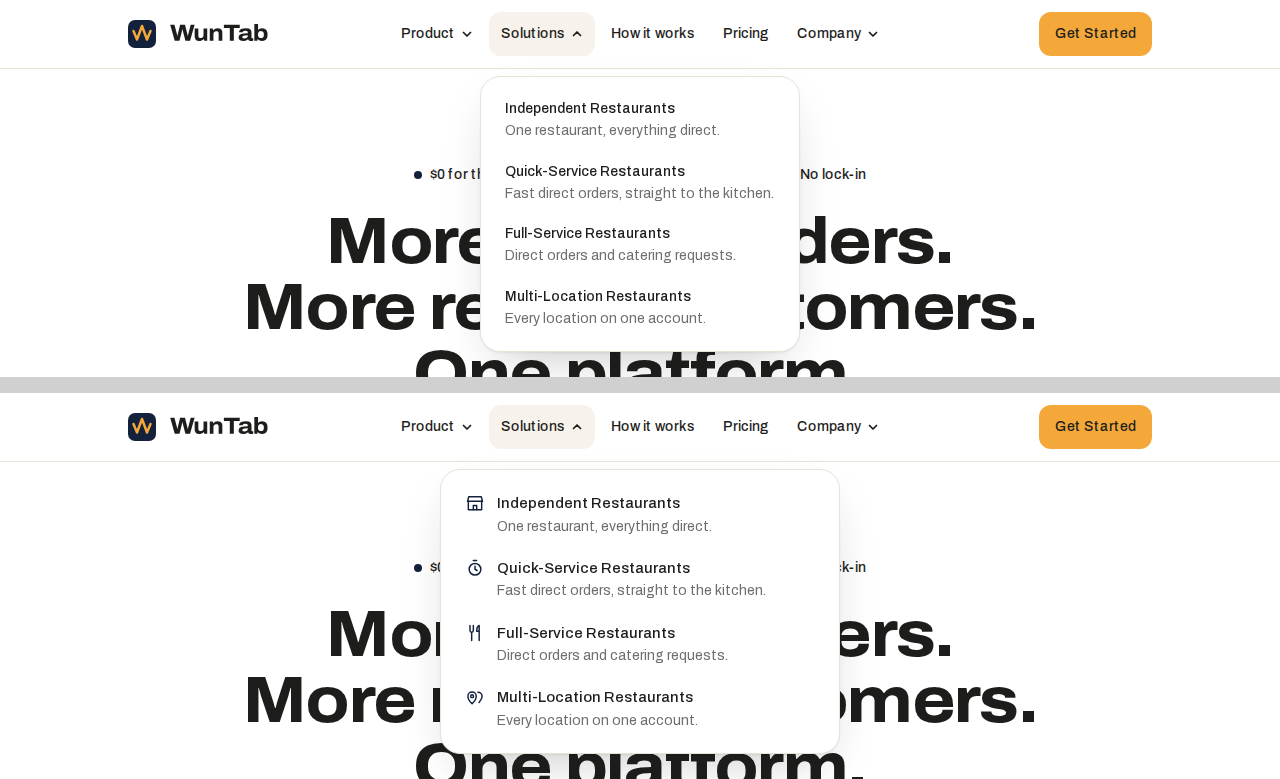
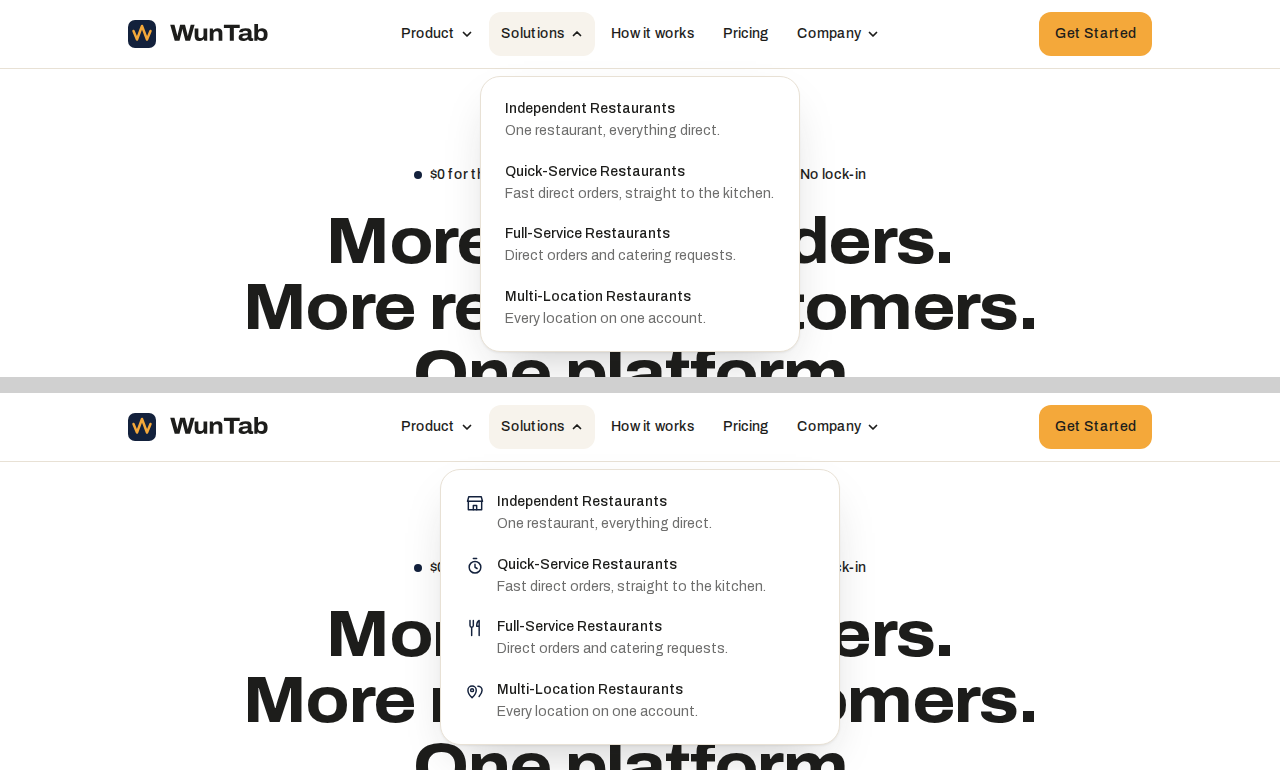
Header menus: every piece of menu text on the five sizes
Owner's review of #63 at 1280 and 375 (2026-10-20):

- Item names and group headings are the small size (14px); headings stay
  weight 600 in ink-muted. The card's "Demo restaurant" line and its link
  are 14px; the card title stays the body size, already on the scale.
  Solutions names are 14px too.
- A new test opens each menu at 1024, 1280 and 1440, and every phone
  group at 375, and checks every visible text against the site's five
  sizes. It failed on the previous build ("Sell directly" at 13px).
  No label wraps from 1024 to 1440 after the change.
- No arrow keys (owner: Tab and Escape are enough); the Escape fix and
  its test stay.
- The design skill and LOG.md record the round.

Claude-Session: https://claude.ai/code/session_01UZB8hyaQxnMWnWtoGGmC5B

diff --git a/tests/menu.spec.ts b/tests/menu.spec.ts
@@ -208,11 +208,11 @@ test("the Product panel: three columns, the card, then New to WunTab, and no nam
     // One row: the three columns side by side, the card to their right.
     expect(new Set(layout.groups.map((g) => Math.round(g.top))).size).toBe(1);
     for (const [i, g] of layout.groups.entries()) {
-      expect(g.heading, `heading at ${width}`).toEqual({ size: "13px", weight: "600", color: "rgb(110, 110, 109)" });
+      expect(g.heading, `heading at ${width}`).toEqual({ size: "14px", weight: "600", color: "rgb(110, 110, 109)" });
       for (const row of g.rows) {
         expect(row.lines, `"${row.label}" wraps at ${width}`).toBe(1);
         expect(row.height, `${row.label} at ${width}`).toBeGreaterThanOrEqual(44);
-        expect([row.size, row.weight], `${row.label}`).toEqual(["15px", "500"]);
+        expect([row.size, row.weight], `${row.label}`).toEqual(["14px", "500"]);
         expect(Math.round(row.gap), `${row.label}: 12px from its icon`).toBe(12);
         const next = layout.groups[i + 1];
         const limit = next?.left ?? layout.card?.left ?? layout.panel.right;
@@ -234,6 +234,59 @@ test("the Product panel: three columns, the card, then New to WunTab, and no nam
     await expect(more.locator("a")).toHaveText([copy.nav.howItWorks, copy.nav.pricing]);
     expect(await more.locator("a").evaluateAll((as) => as.map((a) => a.getAttribute("href")))).toEqual(["/how-it-works", "/pricing"]);
     expect(await page.evaluate(() => document.documentElement.scrollWidth)).toBeLessThanOrEqual(width);
+  }
+});
+
+/** The site's five text sizes at this width, read from the classes themselves. */
+async function scale(page: Page) {
+  return page.evaluate(() =>
+    ["text-small", "text-body", "text-h3", "text-h2", "text-display"].map((cls) => {
+      const el = Object.assign(document.createElement("span"), { className: cls, textContent: "x" });
+      document.body.appendChild(el);
+      const size = getComputedStyle(el).fontSize;
+      el.remove();
+      return size;
+    }),
+  );
+}
+
+/** Every distinct font size of the visible text in `scope`, with an example of each. */
+async function textSizes(scope: Locator) {
+  return scope.evaluate((root) => {
+    const found: Record<string, string> = {};
+    const walker = document.createTreeWalker(root, NodeFilter.SHOW_TEXT);
+    for (let node = walker.nextNode(); node; node = walker.nextNode()) {
+      const el = node.parentElement!;
+      const text = node.textContent?.trim();
+      if (!text || el.closest(".sr-only")) continue;
+      const rect = el.getBoundingClientRect();
+      if (!rect.width || !rect.height) continue;
+      found[getComputedStyle(el).fontSize] ??= text.slice(0, 30);
+    }
+    return found;
+  });
+}
+
+test("every piece of menu text is on the site's five sizes (owner, 2026-10-20)", async ({ page }) => {
+  for (const width of [1024, 1280, 1440]) {
+    await page.setViewportSize({ width, height: 900 });
+    await page.goto("/");
+    const sizes = await scale(page);
+    for (const name of ["Product", "Solutions"] as const) {
+      const found = await textSizes(await openMenu(page, name));
+      for (const [size, example] of Object.entries(found)) expect(sizes, `${name} at ${width}: "${example}" is ${size}`).toContain(size);
+    }
+  }
+  await page.setViewportSize({ width: 375, height: 812 });
+  await page.goto("/");
+  const sizes = await scale(page);
+  await page.locator("header summary", { hasText: "Menu" }).click();
+  const nav = page.locator('header nav[aria-label="Mobile"]');
+  for (const summary of await nav.locator("details > summary").all()) {
+    await summary.click();
+    const found = await textSizes(nav);
+    for (const [size, example] of Object.entries(found)) expect(sizes, `phone menu: "${example}" is ${size}`).toContain(size);
+    await summary.click();
   }
 });
 

diff --git a/src/components/desktop-nav.tsx b/src/components/desktop-nav.tsx
@@ -56,7 +56,7 @@ function ArrowIcon() {
   );
 }
 
-/** A row with an icon (owner, 2026-10-20): icon 20px, 12px gap, the name at 15px weight 500; under it, its line if it has one. */
+/** A row with an icon (owner, 2026-10-20): icon 20px, 12px gap, the name in the small size at weight 500; under it, its line if it has one. */
 function IconRow({ item }: { item: NavItem & { icon: IconName } }) {
   return (
     <SmartLink
@@ -69,7 +69,7 @@ function IconRow({ item }: { item: NavItem & { icon: IconName } }) {
         <NavIcon name={item.icon} size={20} />
       </span>
       <span>
-        <span data-name className="block text-[15px] font-medium">
+        <span data-name className="block text-small font-medium">
           {item.name}
         </span>
         {item.blurb ? <span className="mt-0.5 block text-small text-ink-muted">{item.blurb}</span> : null}
@@ -91,7 +91,7 @@ function Row({ item }: { item: NavItem }) {
   return item.icon ? <IconRow item={{ ...item, icon: item.icon }} /> : <PlainRow item={item} />;
 }
 
-/** The Product menu (owner, 2026-10-20: option A): its groups as columns under 13px headings, the card, then "New to WunTab?". */
+/** The Product menu (owner, 2026-10-20: option A): its groups as columns under their headings, the card, then "New to WunTab?". Every size is on the site's scale. */
 function ProductPanel({ menu }: { menu: NavMenu }) {
   return (
     <div className="px-7 pt-7">
@@ -101,7 +101,7 @@ function ProductPanel({ menu }: { menu: NavMenu }) {
       >
         {menu.groups.map((group, groupIndex) => (
           <div key={group.title ?? groupIndex} data-menu-group>
-            {group.title ? <p className="mb-2 pl-3 text-[13px] font-semibold text-ink-muted">{group.title}</p> : null}
+            {group.title ? <p className="mb-2 pl-3 text-small font-semibold text-ink-muted">{group.title}</p> : null}
             <ul className="flex flex-col gap-0.5">
               {group.items.map((item) => (
                 <li key={item.href}>

diff --git a/src/components/demo-link.tsx b/src/components/demo-link.tsx
@@ -66,7 +66,7 @@ export function DemoCard() {
         <span className="text-small text-ink-muted">{demoStorefront.tag}</span>
         <span className="text-body font-[650] tracking-[-0.01em]">{demoOrder.restaurant}</span>
         <span className="mb-2 text-small">{copy.nav.demoCard}</span>
-        <span className="inline-flex items-center gap-1.5 text-[15px] font-semibold underline underline-offset-4 group-hover/card:decoration-2">
+        <span className="inline-flex items-center gap-1.5 text-small font-semibold underline underline-offset-4 group-hover/card:decoration-2">
           {demoStorefront.label}
           <ExternalIcon />
         </span>

diff --git a/docs/marketing-site/LOG.md b/docs/marketing-site/LOG.md
@@ -68,8 +68,8 @@ Open items the owner asked to be recorded. Newest first. Strike one through when
   - **Which:** one per product page, and storefront, stopwatch, fork and knife, and two pins for the solutions.
 - **Desktop Product panel:**
   - **Layout:** the three groups as columns, then the demo card. The card is 300px from 1200px and narrows to 240px from 1024 to 1199, where 300 would leave the columns too narrow. Each column is at least as wide as its longest name.
-  - **Rows:** 44px, with the icon 20px, a 12px gap, and the name at 15px weight 500. No descriptions.
-  - **Headings:** 13px weight 600, ink-muted.
+  - **Rows:** 44px, with the icon 20px, a 12px gap, and the name in the small size (14px) at weight 500. No descriptions.
+  - **Headings:** the small size, weight 600, ink-muted.
   - **Card:** warm #F7F3EC, radius 16.
     - The demo photo at 300×150, lazy.
     - "Demo restaurant", "Palm&Stone Pizza", "Order like a guest and see what your customers get. Orders here aren't real.", and "See a live restaurant" with the new-tab icon.
@@ -79,9 +79,15 @@ Open items the owner asked to be recorded. Newest first. Strike one through when
 - **Phone menu:** the three headings as accordions, icons at 22px, 48px rows. Before Get Started, a compact demo row replaces the plain link: an 88px thumbnail, "Demo restaurant · Palm&Stone Pizza" and "See a live restaurant ↗". Below a 394px screen that first line is two lines, with the dot hidden.
 - **Keyboard fix:** Escape from inside an open menu used to hand focus back to its button, which opened the menu again. It now stays closed. This was the case before this change too, but no test pressed Escape from inside the panel.
 
-**Notes for the owner:**
-- **Type sizes:** 15px names and 13px headings are the owner's sizes and sit outside the site's five-size scale (14px small, 16 to 18px body). The five-size test counts only what's on screen when a page loads, and the desktop panel isn't, so it doesn't flag them. If the menu should stay on the scale, both go to 14px.
-- **No arrow keys:** the menu has never had arrow-key navigation. Tab moves through it, and Escape closes it and returns focus. The fix above makes that work from inside the panel. Arrow keys would be new behaviour.
+**Second round (owner's review on the preview at 1280 and 375, 2026-10-20):**
+- **Type sizes:** every piece of menu text is now on the five sizes. The first version used 15px for names and 13px for headings, from the brief, and both were outside the scale.
+  - **Names and headings:** item names and group headings are the small size (14px); headings are weight 600, ink-muted.
+  - **The card:** "Demo restaurant" and the link are 14px. The title stays the body size (18px at desktop), which was already on the scale.
+  - **Solutions names** are 14px too.
+  - **The check:** a new test opens each menu at 1024, 1280 and 1440, and every phone group at 375, and checks every visible text against the scale. It failed on the first version, on "Sell directly" at 13px, and passes now.
+  - **No wrapping:** no label wraps from 1024 to 1440 after the change.
+- **No arrow keys:** the menu never had them. The owner said Tab and Escape are enough.
+- **The Escape fix and its test** stay.
 - **Solutions and Company on phones** stay as they were, with no icons, as the brief says ("everything else stays as today").
 
 **Footer heights:** 533px at 1280 (unchanged); 441px at 375, down from 490px (five groups instead of six).
@@ -105,7 +111,7 @@ Open items the owner asked to be recorded. Newest first. Strike one through when
   - the footer's five groups;
   - the screenshot run's group name.
 - **One test changed how it runs:** the contrast scan's planted probe now goes in after React has hydrated `<main>`. Before that, hydration replaced `<main>` and dropped the probe; the page itself logs no hydration error.
-- **Local suite:** 163 passed, 1 skipped. Lint, `tsc`, honesty, copy-lint, boundary-check and `motion --check` pass.
+- **Local suite:** 164 passed, 1 skipped, after the second round. Lint, `tsc`, honesty, copy-lint, boundary-check and `motion --check` pass.
 - **Evidence:** `docs/marketing-site/evidence/menu/`, before over after:
   - the Product and Solutions menus open at 1024, 1280 and 1440;
   - the phone menu at 375, closed and with the first group open;

diff --git a/.claude/skills/wuntab-design/SKILL.md b/.claude/skills/wuntab-design/SKILL.md
@@ -229,9 +229,11 @@ their reasoning. Where they disagree with this section, this section wins.
 - **Desktop Product panel:**
   - **Layout:** the three groups as columns, then the demo card. The card is 300px from 1200px and
     240px from 1024 to 1199, so no name wraps.
-  - **Rows:** 44px, with the icon 20px, a 12px gap, and the name at 15px weight 500.
-  - **Headings:** 13px weight 600, ink-muted. 15px and 13px are the owner's sizes for the menu
-    only, not part of the five-size scale.
+  - **Rows:** 44px, with the icon 20px, a 12px gap, and the name in the small size (14px) at weight
+    500.
+  - **Headings:** the small size, weight 600, ink-muted.
+  - **Type sizes:** every piece of menu text is on the five sizes (owner, 2026-10-20). The card's
+    title is the body size, and the rest is small. A test opens each menu and checks.
   - **Nothing else in a row:** no descriptions, no "New" badges, no numbers.
   - **Bottom row:** under a hairline, "New to WunTab?" (muted), then "See how it works" and
     "Pricing", each with a drawn arrow.
@@ -249,7 +251,7 @@ their reasoning. Where they disagree with this section, this section wins.
 - **Solutions menu:** each page with its icon (storefront, stopwatch, fork and knife, two pins)
   and its one line.
 - **Keyboard:** focus opens a menu, Tab goes into it, Escape closes it and returns focus to its
-  button (it stays closed).
+  button (it stays closed). No arrow keys: Tab and Escape are enough (owner, 2026-10-20).
 
 ## 1. What we are designing for
 
